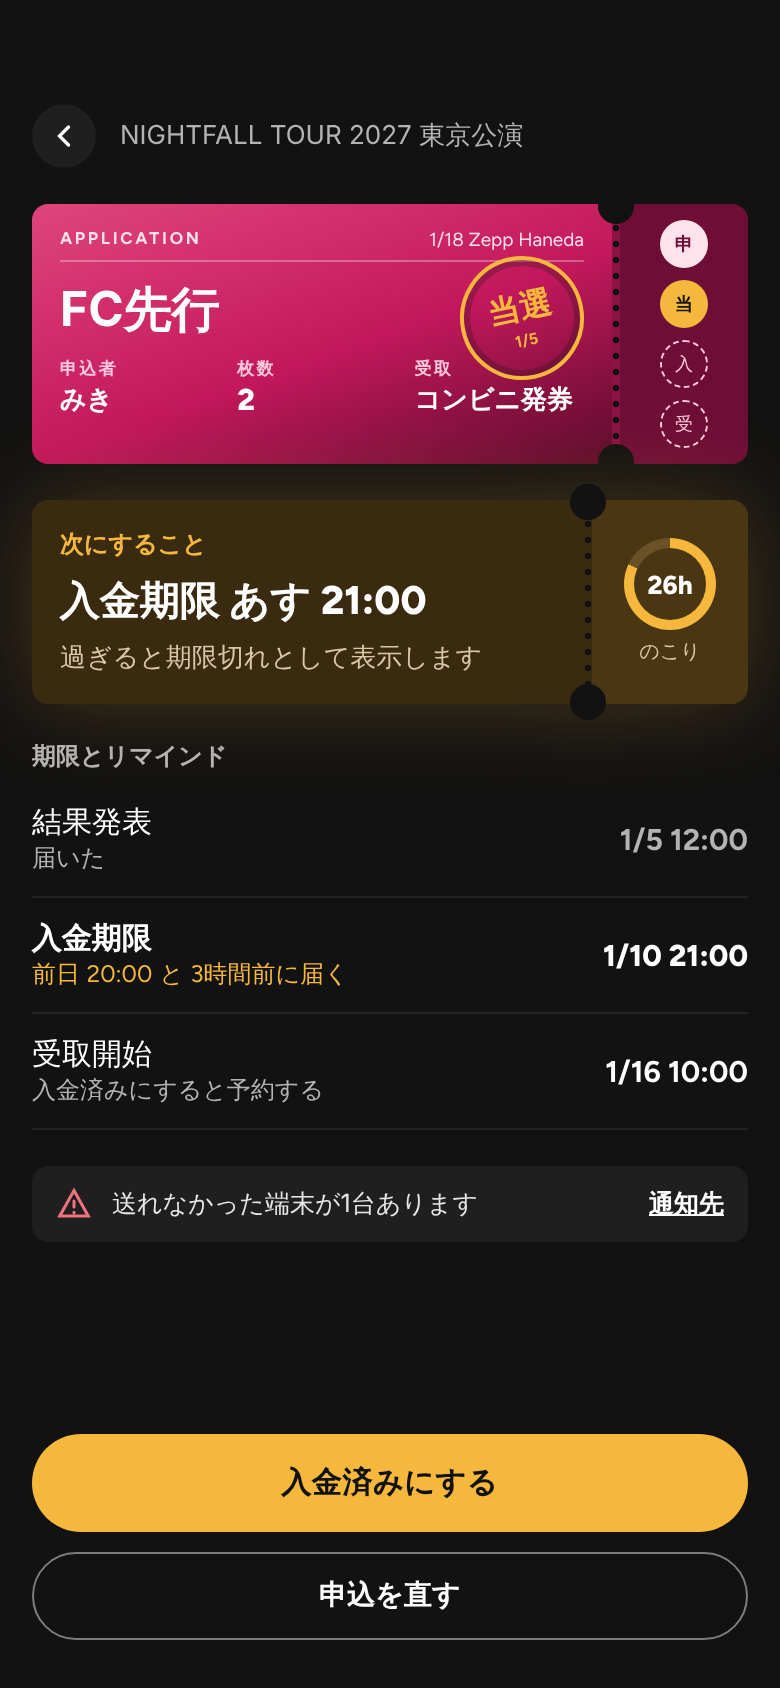
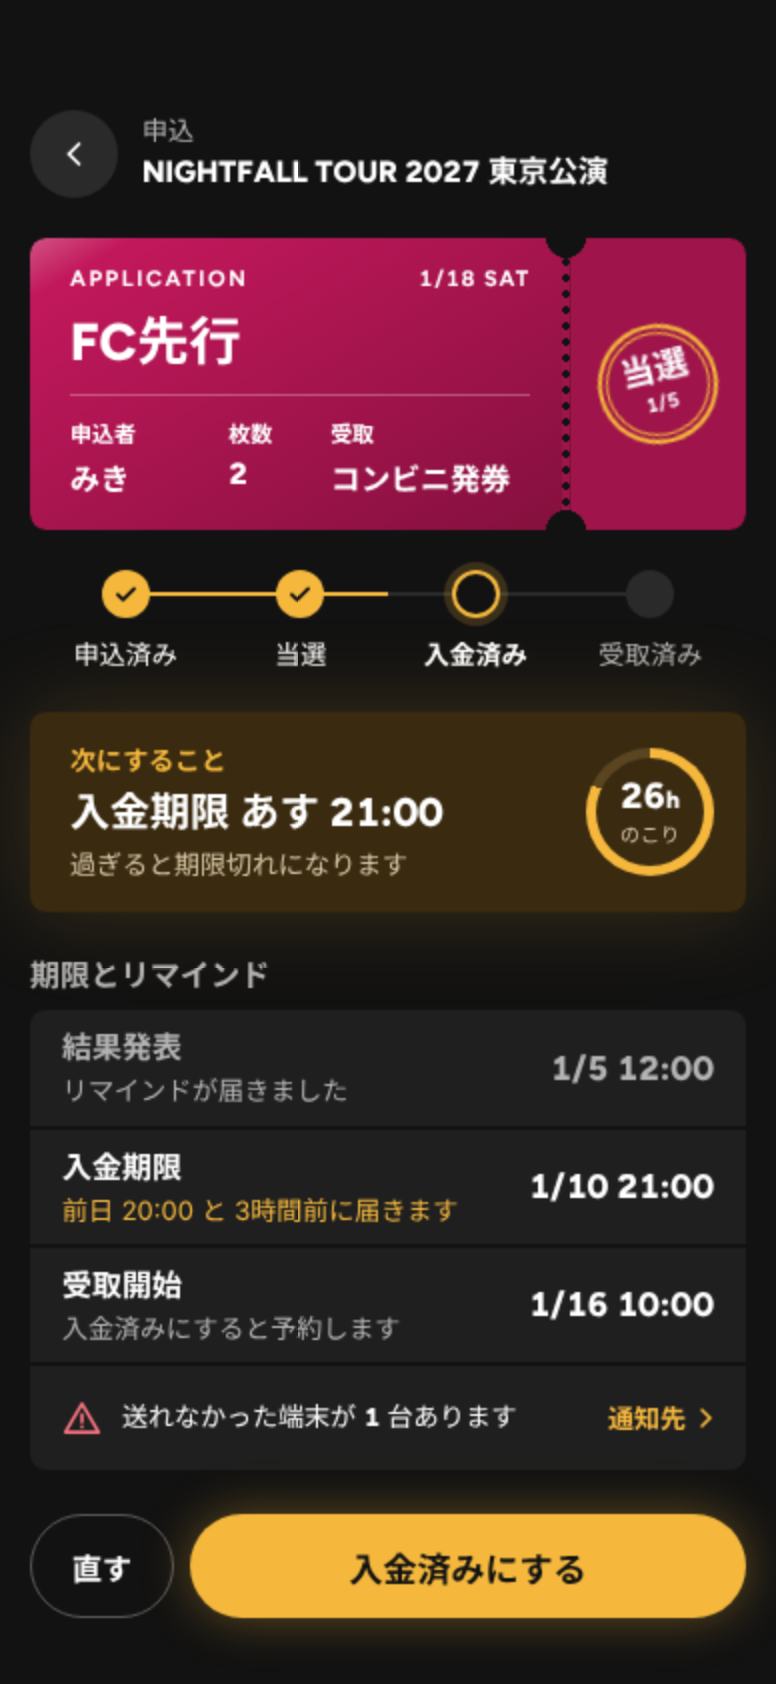
画面の磨き直しとアイコンの調整を、色と部品の決まりと書き出しに入れる
2026-11-26にデザインキャンバスで磨き直したホーム・公演・申込の画面と、
小さいサイズで見えにくかったアイコンの調整を、docs/ui-guidelines.mdと
docs/design-assets/に反映する。

Claude-Session: https://claude.ai/code/session_01KJRikrCfopVw2AfQ2vKUD3

diff --git a/docs/ui-guidelines.md b/docs/ui-guidelines.md
@@ -1,22 +1,25 @@
 # 画面の色と部品の決まり
 
 yoinの画面は、Spotifyの骨組み（暗い地、丸いボタン、下のタブ）に、紙のチケットの作り（通し番号、項目の欄、ミシン目とくぼみ、半券）を足した見た目にする。
-この文書は、2026-11-22〜23に大関さんと決めた見本の画面を、画面を作る人（Devin）がそのまま使える値と決まりにしたものである。
+この文書は、2026-11-22〜23に大関さんと決めた見本の画面と、2026-11-26に磨き直した画面を、画面を作る人（Devin）がそのまま使える値と決まりにしたものである。
 問いと選ばなかった案は`docs/discussions/first-slice.md`にある。
 
-見本の画面はClaude Designで作った（大関さんだけが開ける）。同じ画面の書き出しを`docs/design-assets/screens/`に置く。
+見本の画面はClaude Designで作った（大関さんだけが開ける）。2026-11-26に磨き直した画面は、デザインキャンバス「yoin 画面の磨き直し」にある。同じ画面の書き出しを`docs/design-assets/screens/`に置く。
 書き出しは券の色を既定のアーティストの色（#C2185B）にしてある。文言とデータは見本で、最初の1本の要件ではない。券の文字色と配置は、書き出しではなく下の決まりに従う。
 
-| 画面 | 書き出し |
-| --- | --- |
-| グループのホーム（暗い表示） | [home-dark.png](design-assets/screens/home-dark.png) |
-| グループのホーム（明るい表示） | [home-light.png](design-assets/screens/home-light.png) |
-| 公演 | [concert.png](design-assets/screens/concert.png) |
-| 公演（残り7日を切ったとき） | [concert-countdown.png](design-assets/screens/concert-countdown.png) |
-| 申込 | [ticket-application.png](design-assets/screens/ticket-application.png) |
-| チケットの作りの分析 | [ticket-anatomy.png](design-assets/screens/ticket-anatomy.png) |
-| 色と部品の決まり（暗い表示） | [tokens-dark.png](design-assets/screens/tokens-dark.png) |
-| 明るい表示の色 | [tokens-light.png](design-assets/screens/tokens-light.png) |
+| 画面 | 書き出し | いつの見本か |
+| --- | --- | --- |
+| グループのホーム（暗い表示） | [home-dark.png](design-assets/screens/home-dark.png) | 2026-11-26 |
+| グループのホーム（明るい表示） | [home-light.png](design-assets/screens/home-light.png) | 2026-11-26 |
+| 公演（残り7日を切ったとき） | [concert-countdown.png](design-assets/screens/concert-countdown.png) | 2026-11-26 |
+| 申込（暗い表示） | [ticket-application.png](design-assets/screens/ticket-application.png) | 2026-11-26 |
+| 申込（明るい表示） | [ticket-application-light.png](design-assets/screens/ticket-application-light.png) | 2026-11-26 |
+| 公演（残り7日より前） | [concert.png](design-assets/screens/concert.png) | 2026-11-23 |
+| チケットの作りの分析 | [ticket-anatomy.png](design-assets/screens/ticket-anatomy.png) | 2026-11-23 |
+| 色と部品の決まり（暗い表示） | [tokens-dark.png](design-assets/screens/tokens-dark.png) | 2026-11-23 |
+| 明るい表示の色 | [tokens-light.png](design-assets/screens/tokens-light.png) | 2026-11-23 |
+
+2026-11-23の見本は、この文書と食い違うところがある。食い違ったら、この文書に従う。公演（残り7日より前）は、残り7日を切ったときの画面からカウントダウンの枠を除いた形にする。
 
 ホームの下のタブの「自分」は、最初の1本では自分の設定の一部を開く。表示名、通知先の一覧へのリンク、ログアウトだけを置く（`docs/requirements/first-slice.md`）。
 
@@ -66,8 +69,9 @@ function shade(hex: string, t: number): string {
 | 暗い端 | `shade(色, -0.32)` | 暗い表示の券のグラデーションの終わり |
 | 最も暗い | `shade(色, -0.5)` | 暗い表示の公演の画面の上の地 |
 
-暗い表示の券は`linear-gradient(150deg, 明るい端, 色 50%, 暗い端)`にする。
-明るい表示の券は暗い端を使わず、明るい端からアーティストの色までのグラデーションにし、半券もアーティストの色のまま暗くしない。
+暗い表示の券は`linear-gradient(150deg, 明るい端, 色 10%, 暗い端)`にする。
+明るい表示の券は暗い端を使わず、`linear-gradient(150deg, 明るい端, 色 10%)`にし、半券もアーティストの色のまま暗くしない。
+アーティストの色の位置を10%に置くのは、券の左上の小見出しの下を明るい端にしないためである。50%に置くと、12色のうち9色で、左上の白い文字が4.5:1を下回った（2026-11-26に確かめた）。
 影は、暗い表示では次の期限と次の公演だけ琥珀の光をまとい、明るい表示では薄い茶色の影にする。
 
 券の本体では、グラデーションの向きに沿って、明るい端を0%、反対側の終点を100%とする。小見出し、大きな値、通し番号は、80〜100%の範囲に文字全体を収める。半券では、文字全体を半券の単色の地に収め、ミシン目やくぼみに重ねない。
@@ -77,12 +81,15 @@ function shade(hex: string, t: number): string {
 | 暗い表示 | 12色とも白 | 12色とも白 |
 | 明るい表示 | #E65100・#00838F・#558B2Fは黒、残り9色は白 | 本体と同じ |
 
+券の区切りの細い線は、文字が白なら白の30%、黒なら黒の30%にする。半券の結果のはんこ（当選など）の文字も、この表の文字色にする。差し色の琥珀は、はんこの二重の輪にだけ使う。琥珀の文字は券の地の上で3:1前後になり、読めないため。
+
 白は#FFFFFF、黒は#000000とする。小見出しも文字を透かさない。12色と両方の表示で、文字全体の下にある地とのコントラスト比が4.5:1以上かを確かめる。
 
 ## 文字
 
 和文は端末の書体を使う（iPhoneはヒラギノ角ゴ）。日付・時刻・英字の見出しだけFigtreeにし、英数字だけを読み込む。
-太さは700と400の2段にし、日付と時刻の大きな数字だけ800にする。
+Figtreeの数字は等幅（`font-feature-settings: "tnum"`）にし、カウントダウンや時刻が動いても幅が揺れないようにする。
+太さは700と400の2段にし、日付と時刻の大きな数字と、英字の公演名だけ800にする。
 
 | 用途 | 大きさと太さ |
 | --- | --- |
@@ -92,6 +99,9 @@ function shade(hex: string, t: number): string {
 | 本文 | 15px / 400 |
 | 説明・会場 | 13px / 400、弱い文字 |
 | 券の日付と時刻 | Figtree 800 |
+| 券の小見出し（`LIVE TICKET`など） | Figtree 11px / 700、字間0.14em |
+| 公演の画面の題 | 28px / 700（英字はFigtree 800） |
+| カウントダウンの数字 | Figtree 800、日は56px、時・分・秒は40px |
 
 ## 形と間
 
@@ -99,14 +109,17 @@ function shade(hex: string, t: number): string {
 - 間は8pxを単位にし、画面の左右は16px。
 - 枠線は使わず、面の明るさで分ける。影を付けるのは浮かぶもの（ダイアログ）だけで、`0 8px 24px`の黒50%。
 - 押せる所は高さ44px以上。
+- 画面の幅は375〜430pxで崩れないようにする。ホームの券の英字の公演名は1行に収め、文字の大きさを`clamp(17px, 5vw, 20px)`で幅に合わせる。
+- ホームと申込は、下の帯やボタンの上に中身が隠れないようにする。390pxと375pxの幅で、最後の部品が帯の上に出ることを確かめる。
 
 ## 部品
 
 - 主なボタンは差し色の丸い棒で、1画面に1つ。ほかのボタンは枠だけにする。
 - 絞り込みは、選んでいるものを差し色、ほかを上の面の色にする。
 - 申込の状態は、申込済み・当選・落選・入金済み・期限切れ・受取済みの札で出す（`docs/user-stories.md`のT-02の順）。期限切れは注意の色にする。見本の画面には受取済みの札が無いので、ほかの札と同じ形で足す。
+- 申込の画面では、券の下に「申込済み→当選→入金済み→受取済み」の段階表示を置く。済んだ段は差し色の丸に印、今の段は差し色の輪、まだの段は上の面の色の丸にする。落選と期限切れのときは段階表示を出さず、札で示す。
 - 次の期限の帯は、下のタブの上に常に出す。期限が無ければ出さない。左に残り時間の輪、右に半券の切り取り線を置く。
-- 通知先が無い、または送れなかった端末があるときは、注意の色の印と「通知先」への行き先を出す。
+- 通知先が無い、または送れなかった端末があるときは、注意の色の印と「通知先」への行き先を出す。申込の画面では、期限とリマインドの一覧の最後の行に置く。
 
 ## yoinだけの部品
 
@@ -119,14 +132,26 @@ function shade(hex: string, t: number): string {
 - 券面と半券のあいだは点のミシン目にし、上下に半円のくぼみを入れる。くぼみは地の色で円を描かず、CSSの`mask`で券を切り抜く。描いた円は地の色と合わず浮くため（2026-11-23 大関さんの指摘で直した）。
 - 申込の券面のSEATには、申込の「座席・整理番号」の欄を出す。この欄は最初の1本で申込に足す（`docs/discussions/first-slice.md`の「券面に整理番号を出すか」）。
 
+### ホームの並び
+
+ホームは上から、グループ（仲間の輪・今日の日付・グループの名前・申込を足す「＋」）、次の公演の券、このあと、行った公演の棚の順にする。
+「このあと」には、下の帯に出した期限を除いた、次の2件を出す。帯と同じ期限を2回見せないため。
+
 ### 余韻
 
 行った公演は、ホームの「行った公演」の棚に半券の形で並ぶ。券の色は、公演の日から日がたつほど、アーティストの色から余韻の薄れる先（`--fade-to`）へ近づく。
+半券の文字は、地の色との比が4.5:1以上なら白、下回れば#121212にする。色が薄れると、明るい表示では白が読めなくなるため。入場済みのはんこは日付の行の右に置き、公演名に重ねない。
+棚は横に送れるようにし、3枚目の端を画面の右に少し見せて、まだ続くことを示す。
 
 ### ペンライトの光
 
 次の期限と次の公演のカードだけ、琥珀の光（暗い表示）をまとう。残り時間は輪で減らす。
-公演の残りが7日を切ったら、公演の画面に日・時・分・秒のカウントダウンと7つの目盛りを出す。
+公演の残りが7日を切ったら、公演の画面に日・時・分・秒のカウントダウンと7つの目盛りを出す。カウントダウンは公演の題のすぐ下に置き、秒も実際に進める。
+
+### 動き
+
+動きは3つだけにする。券の上を光が斜めに流れる箔（7秒に1回）、カウントダウンの秒と区切りの点の明滅、申込の結果のはんこが押される動き（表示したときに1回）。
+端末で動きを減らす設定（`prefers-reduced-motion: reduce`）にしているときは、3つとも止める。
 
 ### 仲間の輪
 
@@ -140,6 +165,7 @@ function shade(hex: string, t: number): string {
 ## アプリのアイコン
 
 ホーム画面のアイコンは、重なる2枚の半券に夕焼けのグラデーションをかけた形にした。書き出しは`docs/design-assets/icon/`にある。
+2026-11-26に、形と色の方向は変えずに4点を直した。暗い壁紙の上でアイコンの縁が消えたので、地の上側を明るくし（#46294D〜#16101B）、夕焼けの光を強めた。60px以下でバーコードがつぶれたので、細い線13本を太さの違う8本にした。ミシン目の点は6つから5つにして大きくした。券を6%大きくした。maskableは、丸く切り抜かれても券が欠けないよう、券を78%に縮めた。
 
 | ファイル | 使う所 |
 | --- | --- |
